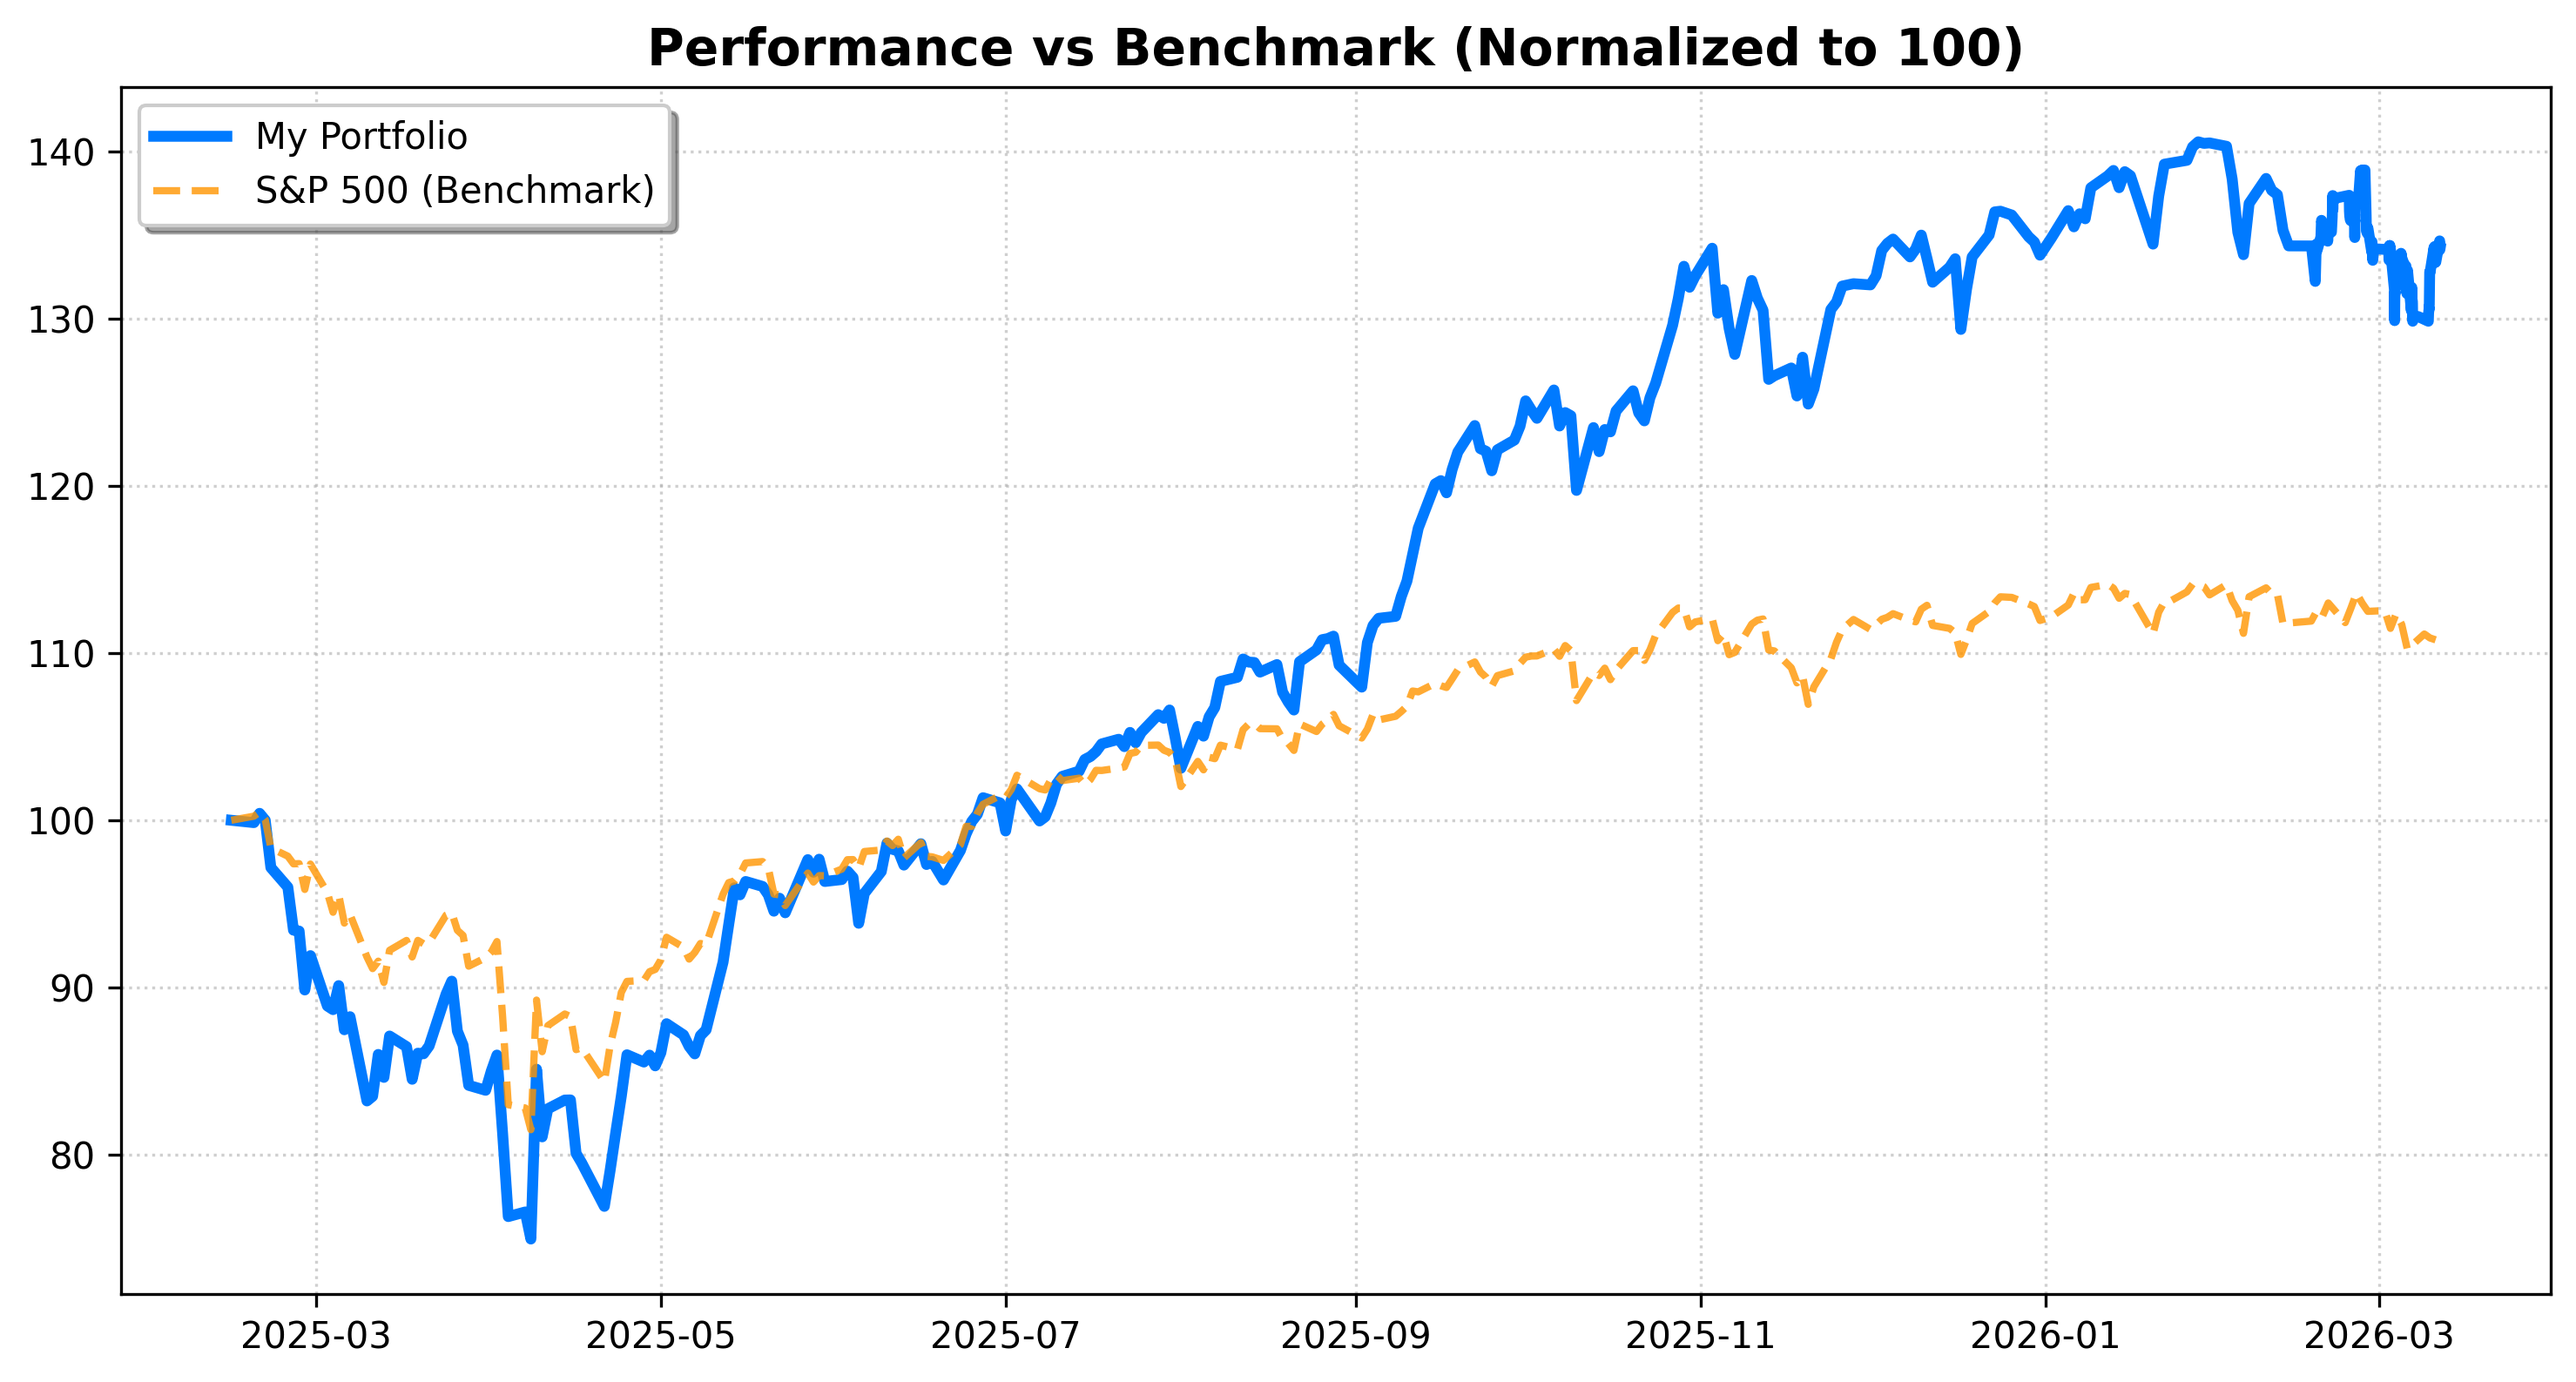
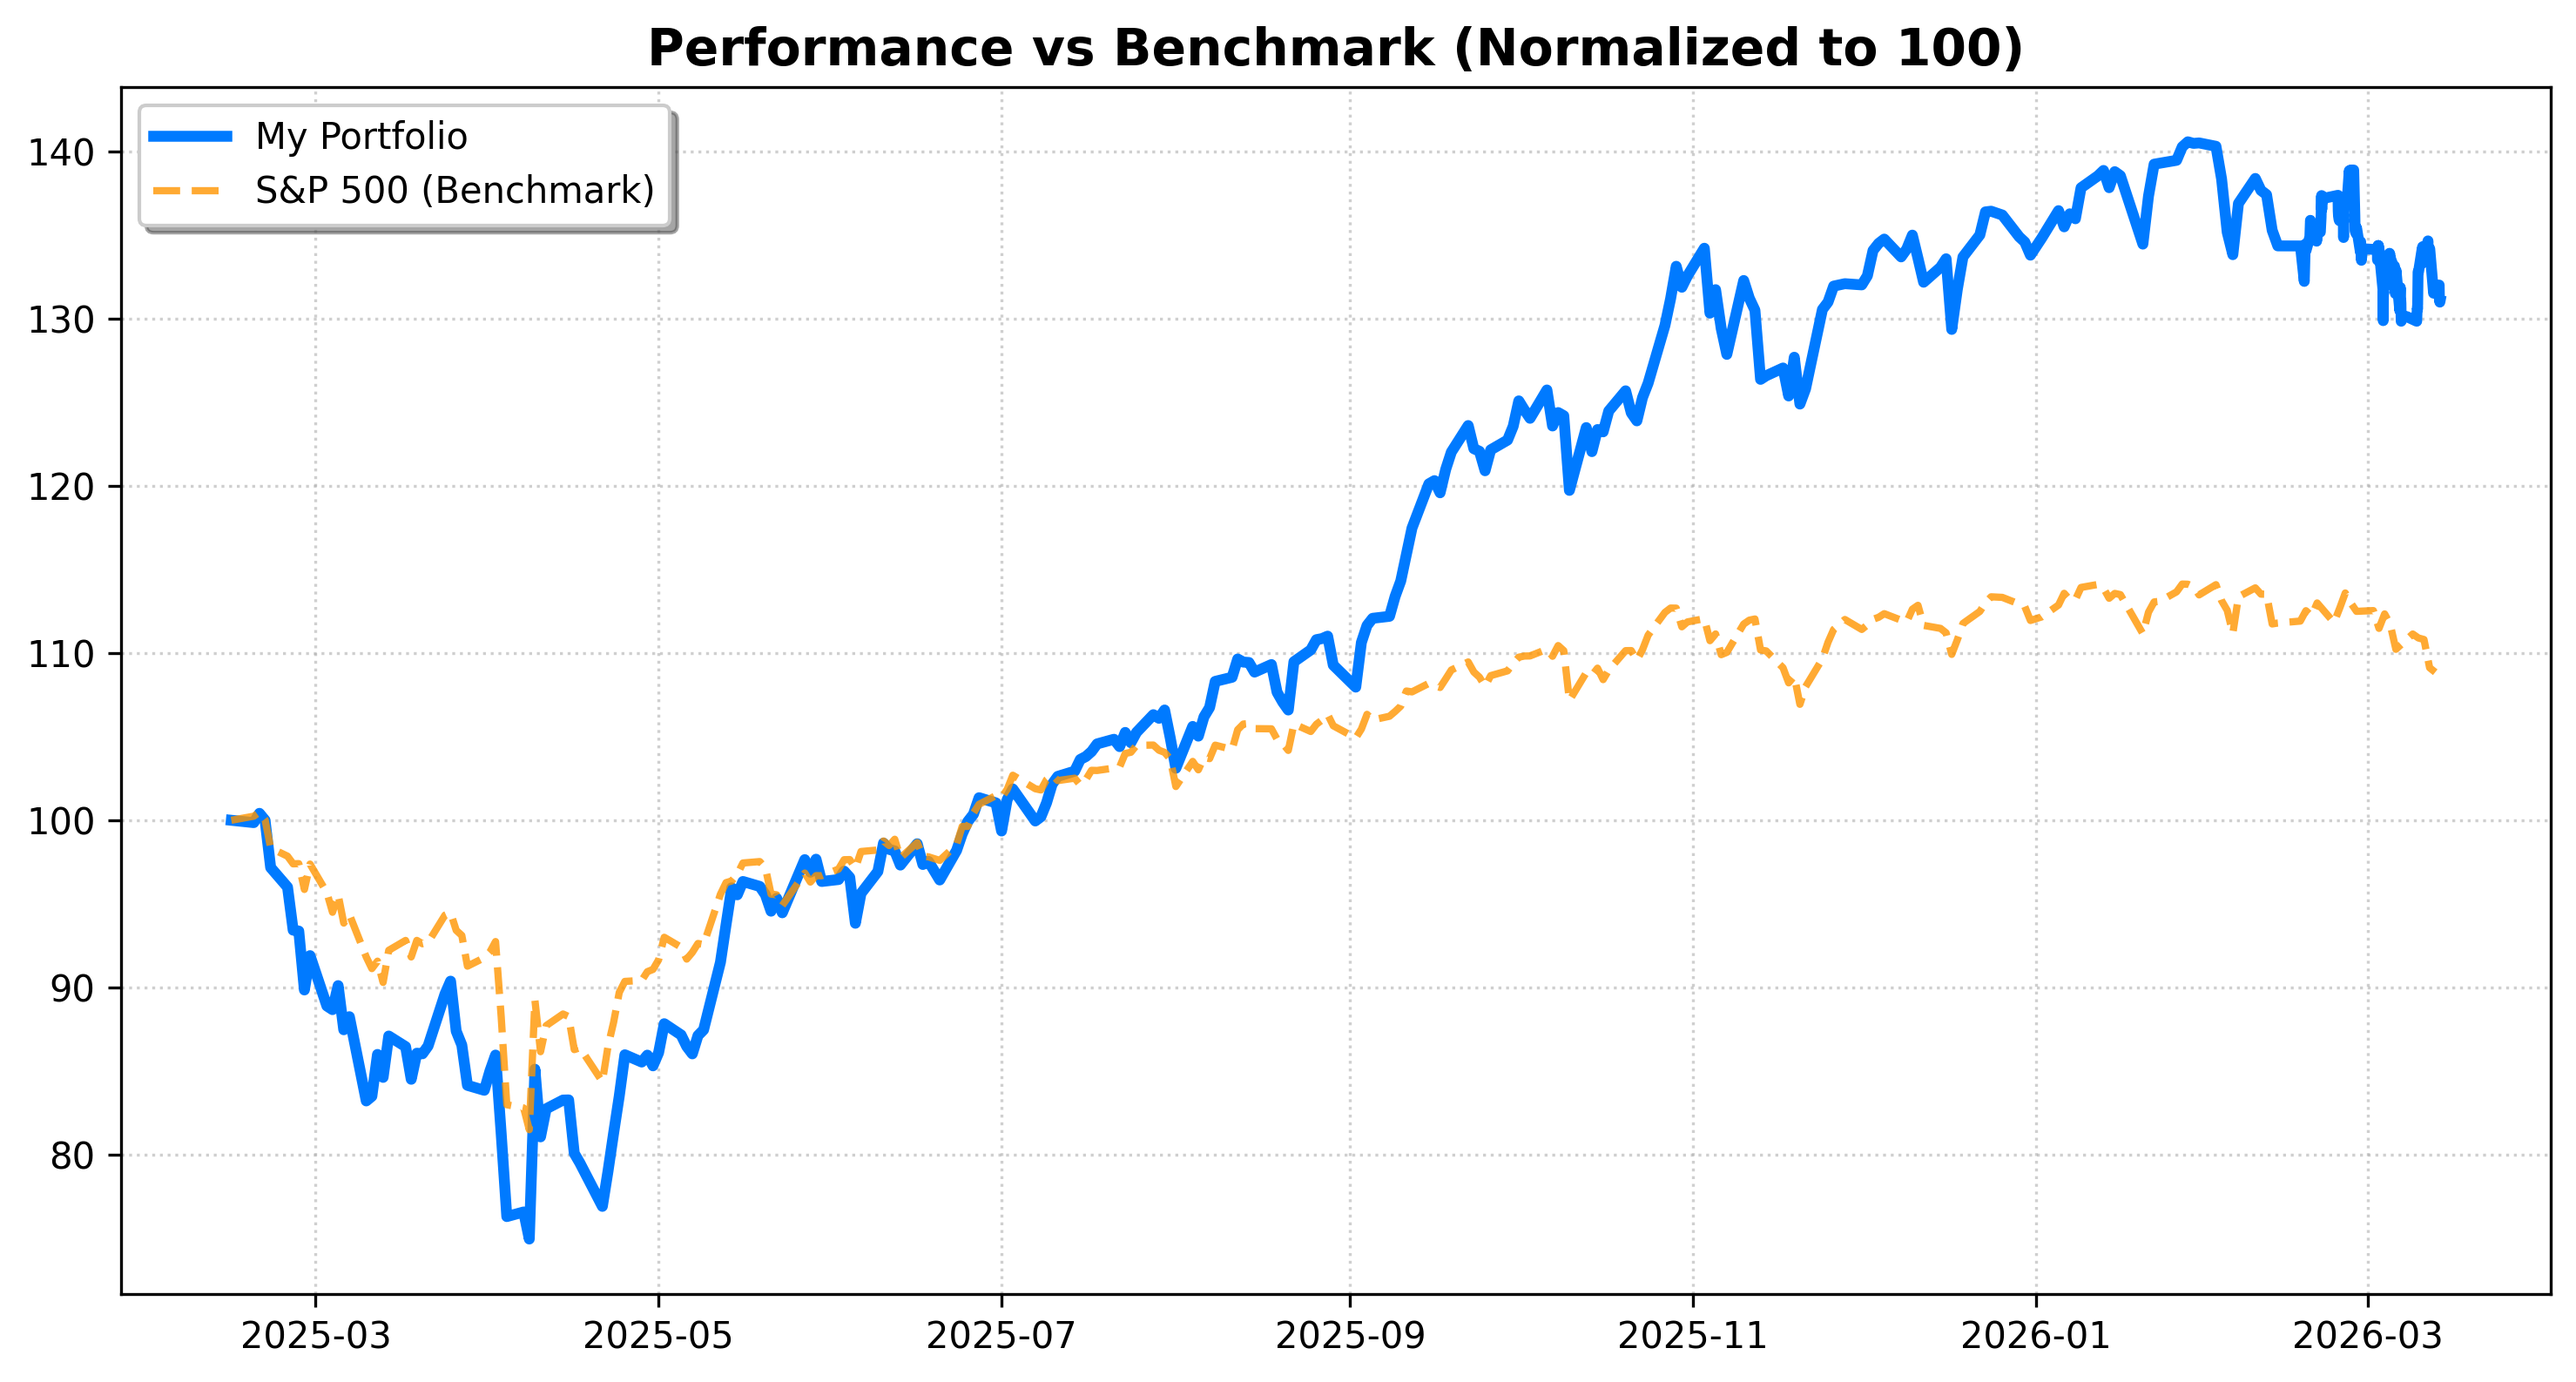
System Run: Analytics & Archive Update [skip ci]

diff --git a/README.md b/README.md
@@ -1,23 +1,23 @@
 # 📊 Portfolio Dashboard | מעקב תיק השקעות
-**Last Update:** 13/03/2026 19:40 | **USD/ILS:** ₪3.135
+**Last Update:** 13/03/2026 20:52 | **USD/ILS:** ₪3.137
 
 ## 💰 Portfolio Summary | סיכום התיק
 | Metric | Value | נתון |
 | :--- | :--- | :--- |
-| **Current Value** | `₪163,493` | **שווי נוכחי** |
-| **Total Invested** | `₪131,656` | **סך השקעה** |
-| **Total Profit/Loss** | `+24.18%` (₪31,838) | **רווח/הפסד כולל** |
-| **Daily Change** | `-0.41%` | **שינוי יומי** |
+| **Current Value** | `₪163,712` | **שווי נוכחי** |
+| **Total Invested** | `₪131,744` | **סך השקעה** |
+| **Total Profit/Loss** | `+24.27%` (₪31,968) | **רווח/הפסד כולל** |
+| **Daily Change** | `-0.68%` | **שינוי יומי** |
 
 ## 📜 Holdings | פירוט החזקות
 | Ticker | Shares | Avg. Cost | Current Price | P&L % | P&L ILS |
 | :--- | :--- | :--- | :--- | :--- | :--- |
-| GOOGL | 45 | $181.15 | $301.17 | 🟢 +66.25% | ₪16,930 |
-| ASML | 4 | $934.51 | $1,350.05 | 🟢 +44.47% | ₪5,210 |
-| XOM | 2 | $126.08 | $155.61 | 🟢 +23.42% | ₪185 |
-| NVDA | 57 | $148.62 | $181.41 | 🟢 +22.06% | ₪5,859 |
-| TSLA | 20 | $436.45 | $394.58 | 🔴 -9.59% | ₪-2,625 |
-| VOO | 24 | $527.38 | $610.83 | 🟢 +15.82% | ₪6,278 |
+| GOOGL | 45 | $181.15 | $302.51 | 🟢 +66.99% | ₪17,131 |
+| ASML | 4 | $934.51 | $1,353.74 | 🟢 +44.86% | ₪5,260 |
+| XOM | 2 | $126.08 | $156.78 | 🟢 +24.35% | ₪193 |
+| NVDA | 57 | $148.62 | $180.96 | 🟢 +21.76% | ₪5,782 |
+| TSLA | 20 | $436.45 | $393.22 | 🔴 -9.90% | ₪-2,712 |
+| VOO | 24 | $527.38 | $611.26 | 🟢 +15.91% | ₪6,315 |
 
 ## 📈 Charts | גרפים
 ![Performance](./data_hub/portfolio_performance.png)
